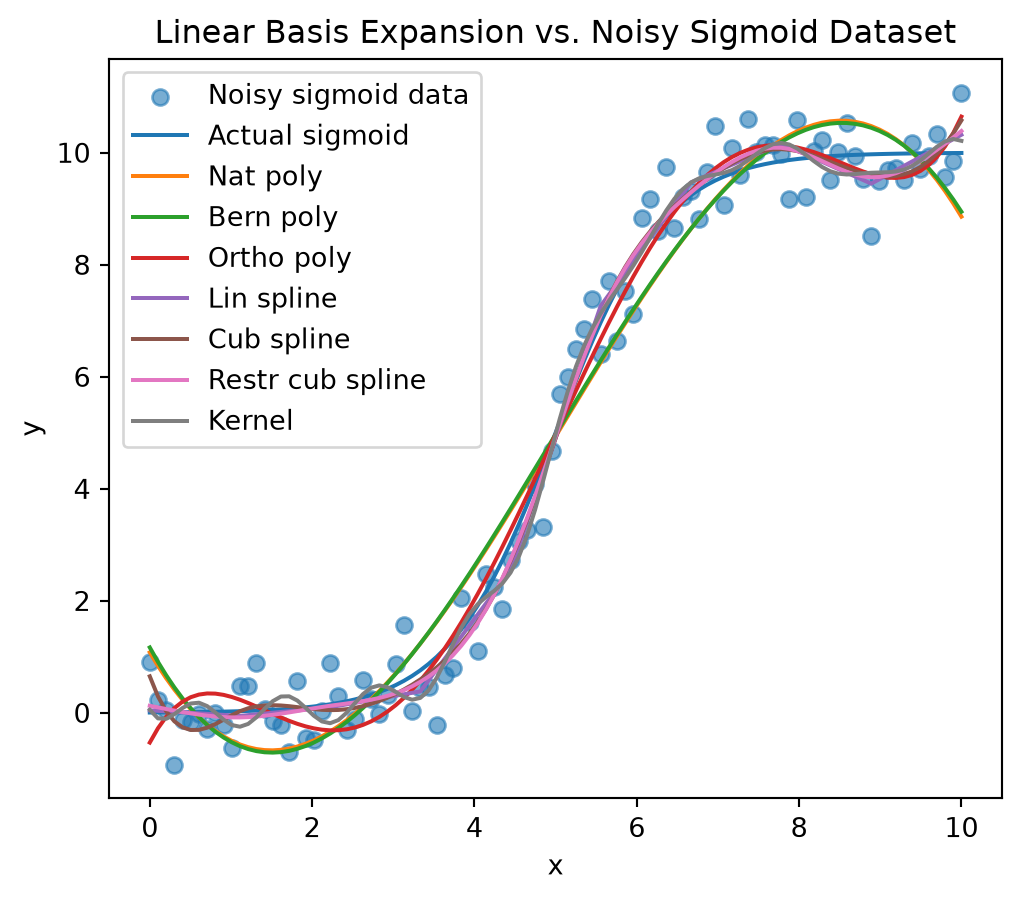
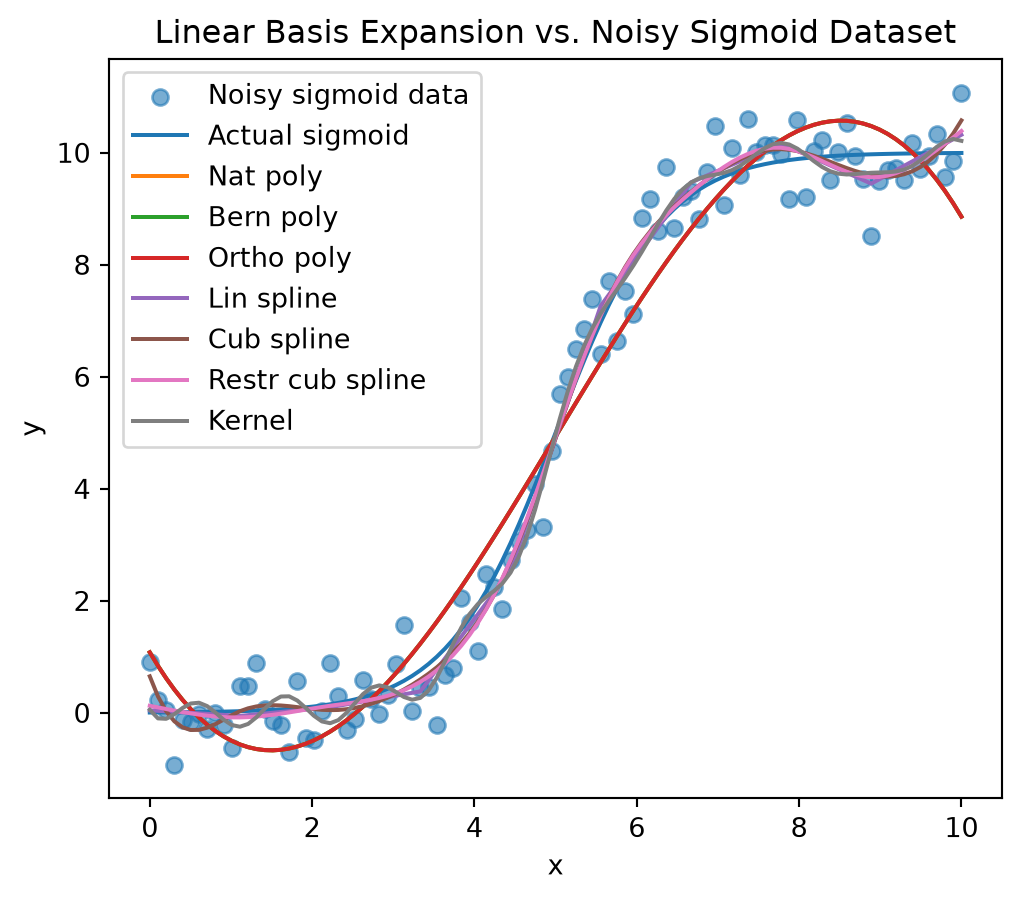
thurs morn revisions

diff --git a/_book/5_Nonlinearity.html b/_book/5_Nonlinearity.html
@@ -287,7 +287,7 @@ E[Y \mid x] = \beta_0 + \sum_{i=1}^{n} \beta_i K\left(\frac{x-c_i}{h}\right)
 <p>Linear combinations of multiple kernel functions can be used in a model, depending on the dataset. At the tails of the dataset, the model reverts back to a value of <span class="math inline">\(\beta_0\)</span>.</p>
 <p>Many different equations can be used for the kernel function, including any function proportional to a density function.</p>
 <p>A plot was also created to show how kernel functions sum to create the regression equation. For this example, 3 kernel functions were used. First, a simulated dataset was created from 0 to 10.</p>
-<div id="3ed064ab" class="cell" data-execution_count="1">
+<div id="92fc3d3e" class="cell" data-execution_count="1">
 <div class="code-copy-outer-scaffold"><div class="sourceCode cell-code" id="cb1"><pre class="sourceCode python code-with-copy"><code class="sourceCode python"><span id="cb1-1"><a href="#cb1-1" aria-hidden="true" tabindex="-1"></a><span class="im">import</span> numpy <span class="im">as</span> np</span>
 <span id="cb1-2"><a href="#cb1-2" aria-hidden="true" tabindex="-1"></a></span>
 <span id="cb1-3"><a href="#cb1-3" aria-hidden="true" tabindex="-1"></a><span class="co"># simulated dataset</span></span>
@@ -295,7 +295,7 @@ E[Y \mid x] = \beta_0 + \sum_{i=1}^{n} \beta_i K\left(\frac{x-c_i}{h}\right)
 <span id="cb1-5"><a href="#cb1-5" aria-hidden="true" tabindex="-1"></a>x <span class="op">=</span> np.linspace(<span class="dv">0</span>, <span class="dv">10</span>, <span class="dv">100</span>)</span></code></pre></div><button title="Copy to Clipboard" class="code-copy-button"><i class="bi"></i></button></div>
 </div>
 <p>Next, 3 kernel functions were created by defining their centers, c, widths, h, and using a Gaussian equation. The 3 kernel functions were summed to simulate a regression plot.</p>
-<div id="2bd5f54a" class="cell" data-execution_count="2">
+<div id="473718db" class="cell" data-execution_count="2">
 <div class="code-copy-outer-scaffold"><div class="sourceCode cell-code" id="cb2"><pre class="sourceCode python code-with-copy"><code class="sourceCode python"><span id="cb2-1"><a href="#cb2-1" aria-hidden="true" tabindex="-1"></a><span class="co"># select three kernel centers</span></span>
 <span id="cb2-2"><a href="#cb2-2" aria-hidden="true" tabindex="-1"></a>c_1 <span class="op">=</span> <span class="dv">2</span></span>
 <span id="cb2-3"><a href="#cb2-3" aria-hidden="true" tabindex="-1"></a>c_2 <span class="op">=</span> <span class="dv">4</span></span>
@@ -315,7 +315,7 @@ E[Y \mid x] = \beta_0 + \sum_{i=1}^{n} \beta_i K\left(\frac{x-c_i}{h}\right)
 <span id="cb2-17"><a href="#cb2-17" aria-hidden="true" tabindex="-1"></a>kernel_sum <span class="op">=</span> kernel_1 <span class="op">+</span> kernel_2 <span class="op">+</span> kernel_3</span></code></pre></div><button title="Copy to Clipboard" class="code-copy-button"><i class="bi"></i></button></div>
 </div>
 <p>Finally, a stacked plot was created to show all 3 kernel functions and their summation.</p>
-<div id="44f0c11b" class="cell" data-execution_count="3">
+<div id="fa70f84f" class="cell" data-execution_count="3">
 <div class="code-copy-outer-scaffold"><div class="sourceCode cell-code" id="cb3"><pre class="sourceCode python code-with-copy"><code class="sourceCode python"><span id="cb3-1"><a href="#cb3-1" aria-hidden="true" tabindex="-1"></a><span class="im">import</span> matplotlib.pyplot <span class="im">as</span> plt</span>
 <span id="cb3-2"><a href="#cb3-2" aria-hidden="true" tabindex="-1"></a><span class="co"># Create two vertically stacked subplots</span></span>
 <span id="cb3-3"><a href="#cb3-3" aria-hidden="true" tabindex="-1"></a>fig, axes <span class="op">=</span> plt.subplots(<span class="dv">2</span>, <span class="dv">1</span>, figsize<span class="op">=</span>(<span class="dv">6</span>, <span class="dv">5</span>), sharex<span class="op">=</span><span class="va">True</span>)</span>
@@ -355,7 +355,7 @@ E[Y \mid x] = \beta_0 + \sum_{i=1}^{n} \beta_i K\left(\frac{x-c_i}{h}\right)
 <section id="simulated-dataset" class="level3" data-number="6.2.1">
 <h3 data-number="6.2.1" class="anchored" data-anchor-id="simulated-dataset"><span class="header-section-number">6.2.1</span> Simulated Dataset</h3>
 <p>A simulated dataset was used to show the code implementation of each of the basis expansion methods. The dataset used was a noisy sine wave. The sine wave was created over a single period from 0 to <span class="math inline">\(2\pi\)</span>. Random noise was generated from a normal distribution with a mean of 0 and standard deviation of 0.2. This random noise was added to the noise wave to produce the example dataset. The dataset was then plotted.</p>
-<div id="6a201055" class="cell" data-execution_count="4">
+<div id="7c20d87d" class="cell" data-execution_count="4">
 <div class="code-copy-outer-scaffold"><div class="sourceCode cell-code" id="cb4"><pre class="sourceCode python code-with-copy"><code class="sourceCode python"><span id="cb4-1"><a href="#cb4-1" aria-hidden="true" tabindex="-1"></a><span class="im">import</span> numpy <span class="im">as</span> np</span>
 <span id="cb4-2"><a href="#cb4-2" aria-hidden="true" tabindex="-1"></a><span class="im">import</span> matplotlib.pyplot <span class="im">as</span> plt</span>
 <span id="cb4-3"><a href="#cb4-3" aria-hidden="true" tabindex="-1"></a></span>
@@ -393,8 +393,8 @@ E[Y \mid x] = \beta_0 + \sum_{i=1}^{n} \beta_i K\left(\frac{x-c_i}{h}\right)
 <p>The basic equation for a natural polynomial regression is as follows: <span class="math display">\[
 E[Y \mid x] = \beta_0 + \beta_1 x + \beta_2 x^2 + \cdots + \beta_d x^d
 \]</span></p>
-<p>The sklearn PolynomialFeatures library was used for implementing the natural polynomial function. A 3rd degree polynomial was used for this example. The polynomial model was then created and fit to the noisy sine wave data. The polynomial model was then used to make predictions along x.</p>
-<div id="be557c48" class="cell" data-execution_count="5">
+<p>The sklearn PolynomialFeatures library was used for implementing the natural polynomial function. A 3rd degree polynomial was used for this example. The PolynomialFeatures library in sklearn was used to develop the design matrix. The polynomial model was then created and fit to the noisy sine wave data. The polynomial model was then used to make predictions along x.</p>
+<div id="bef9bcb2" class="cell" data-execution_count="5">
 <div class="code-copy-outer-scaffold"><div class="sourceCode cell-code" id="cb5"><pre class="sourceCode python code-with-copy"><code class="sourceCode python"><span id="cb5-1"><a href="#cb5-1" aria-hidden="true" tabindex="-1"></a><span class="im">from</span> sklearn.preprocessing <span class="im">import</span> PolynomialFeatures</span>
 <span id="cb5-2"><a href="#cb5-2" aria-hidden="true" tabindex="-1"></a><span class="im">from</span> sklearn.linear_model <span class="im">import</span> LinearRegression</span>
 <span id="cb5-3"><a href="#cb5-3" aria-hidden="true" tabindex="-1"></a></span>
@@ -415,7 +415,7 @@ E[Y \mid x] = \beta_0 + \beta_1 x + \beta_2 x^2 + \cdots + \beta_d x^d
 <span id="cb5-18"><a href="#cb5-18" aria-hidden="true" tabindex="-1"></a>y_pred_nat_poly <span class="op">=</span> natural_poly_regression(X, y, degree<span class="op">=</span><span class="dv">3</span>)</span></code></pre></div><button title="Copy to Clipboard" class="code-copy-button"><i class="bi"></i></button></div>
 </div>
 <p>The noisy sine wave data nd natural polynomial model were then plotted to visualize the model fit.</p>
-<div id="6a77a29e" class="cell" data-execution_count="6">
+<div id="de662ddb" class="cell" data-execution_count="6">
 <div class="code-copy-outer-scaffold"><div class="sourceCode cell-code" id="cb6"><pre class="sourceCode python code-with-copy"><code class="sourceCode python"><span id="cb6-1"><a href="#cb6-1" aria-hidden="true" tabindex="-1"></a><span class="co"># plot results</span></span>
 <span id="cb6-2"><a href="#cb6-2" aria-hidden="true" tabindex="-1"></a>plt.figure(figsize<span class="op">=</span>(<span class="dv">6</span>, <span class="dv">5</span>))</span>
 <span id="cb6-3"><a href="#cb6-3" aria-hidden="true" tabindex="-1"></a>plt.scatter(x, y, alpha<span class="op">=</span><span class="fl">0.6</span>, label<span class="op">=</span><span class="st">"Noisy sine wave"</span>)</span>
@@ -446,7 +446,7 @@ B_{k,d}(x) = \binom{d}{k} x^k (1-x)^{d-k}
 <p>Next, a third degree Bernstein polynomial was selected as the regression approach. A function was written to calculate the general term in the Bernstein basis expansion. This function used the scipy special combination library for the combination portion of the Bernstein expansion. Then a for loop was used to create a marix containing each term of the Bernstein expansion.</p>
 <p>The bern_terms list was then transformed from a list of arrays into a resulting design matrix. This was done using the numpy hstack function. This function takes each array in the bern_terms list and combines them horizontally to create an array with dimensions: (num of obs x poly degree+1).</p>
 <p>Finally, the Bernstein regression model was created, fit, and used to generate predictions.</p>
-<div id="6300b3a9" class="cell" data-execution_count="7">
+<div id="0b689a77" class="cell" data-execution_count="7">
 <div class="code-copy-outer-scaffold"><div class="sourceCode cell-code" id="cb7"><pre class="sourceCode python code-with-copy"><code class="sourceCode python"><span id="cb7-1"><a href="#cb7-1" aria-hidden="true" tabindex="-1"></a><span class="im">from</span> scipy.special <span class="im">import</span> comb</span>
 <span id="cb7-2"><a href="#cb7-2" aria-hidden="true" tabindex="-1"></a><span class="im">import</span> numpy <span class="im">as</span> np</span>
 <span id="cb7-3"><a href="#cb7-3" aria-hidden="true" tabindex="-1"></a><span class="im">from</span> sklearn.linear_model <span class="im">import</span> LinearRegression</span>
@@ -477,7 +477,7 @@ B_{k,d}(x) = \binom{d}{k} x^k (1-x)^{d-k}
 <span id="cb7-28"><a href="#cb7-28" aria-hidden="true" tabindex="-1"></a>y_pred_bern <span class="op">=</span> bernstein_regression(X, y, degree<span class="op">=</span><span class="dv">3</span>)</span></code></pre></div><button title="Copy to Clipboard" class="code-copy-button"><i class="bi"></i></button></div>
 </div>
 <p>The resulting Bernstein polynomial was then added to the plot for comparison.</p>
-<div id="e75f83e1" class="cell" data-execution_count="8">
+<div id="ecbe0d10" class="cell" data-execution_count="8">
 <div class="code-copy-outer-scaffold"><div class="sourceCode cell-code" id="cb8"><pre class="sourceCode python code-with-copy"><code class="sourceCode python"><span id="cb8-1"><a href="#cb8-1" aria-hidden="true" tabindex="-1"></a><span class="co"># plot results</span></span>
 <span id="cb8-2"><a href="#cb8-2" aria-hidden="true" tabindex="-1"></a>plt.figure(figsize<span class="op">=</span>(<span class="dv">6</span>, <span class="dv">5</span>))</span>
 <span id="cb8-3"><a href="#cb8-3" aria-hidden="true" tabindex="-1"></a>plt.scatter(x, y, alpha<span class="op">=</span><span class="fl">0.6</span>, label<span class="op">=</span><span class="st">"Noisy sine wave"</span>)</span>
@@ -501,7 +501,7 @@ B_{k,d}(x) = \binom{d}{k} x^k (1-x)^{d-k}
 <h4 data-number="6.2.2.3" class="anchored" data-anchor-id="orthogonal-polynomials"><span class="header-section-number">6.2.2.3</span> Orthogonal Polynomials</h4>
 <p>To construct an orthogonal polynomial basis expansion, the degree of the polynomial must first be selected. For this example, a third degree polynomial was selected. Next, the raw polynoial features were created using the PolynomialFeatures sklearn library. This approach is the same as was used for the natural polynomial basis.</p>
 <p>Then the numpy QR decomposition was used to transform the raw polynomial features into orthonormal columns, which are orthogonal and have unit length. These orthonormal columns were used to fit the orthogonal polynomial model. Finally, predictions were developed over X using the fitted model.</p>
-<div id="7ee929ce" class="cell" data-execution_count="9">
+<div id="050ac6f6" class="cell" data-execution_count="9">
 <div class="code-copy-outer-scaffold"><div class="sourceCode cell-code" id="cb9"><pre class="sourceCode python code-with-copy"><code class="sourceCode python"><span id="cb9-1"><a href="#cb9-1" aria-hidden="true" tabindex="-1"></a><span class="im">from</span> sklearn.linear_model <span class="im">import</span> LinearRegression</span>
 <span id="cb9-2"><a href="#cb9-2" aria-hidden="true" tabindex="-1"></a><span class="im">from</span> sklearn.preprocessing <span class="im">import</span> PolynomialFeatures</span>
 <span id="cb9-3"><a href="#cb9-3" aria-hidden="true" tabindex="-1"></a><span class="im">import</span> numpy <span class="im">as</span> np</span>
@@ -532,7 +532,7 @@ B_{k,d}(x) = \binom{d}{k} x^k (1-x)^{d-k}
 <span id="cb9-28"><a href="#cb9-28" aria-hidden="true" tabindex="-1"></a></span>
 <span id="cb9-29"><a href="#cb9-29" aria-hidden="true" tabindex="-1"></a>y_pred_orth <span class="op">=</span> orthogonal_poly_regression(X, y, degree<span class="op">=</span><span class="dv">3</span>)</span></code></pre></div><button title="Copy to Clipboard" class="code-copy-button"><i class="bi"></i></button></div>
 </div>
-<div id="209e7764" class="cell" data-execution_count="10">
+<div id="302bd648" class="cell" data-execution_count="10">
 <div class="code-copy-outer-scaffold"><div class="sourceCode cell-code" id="cb10"><pre class="sourceCode python code-with-copy"><code class="sourceCode python"><span id="cb10-1"><a href="#cb10-1" aria-hidden="true" tabindex="-1"></a><span class="co"># plot results</span></span>
 <span id="cb10-2"><a href="#cb10-2" aria-hidden="true" tabindex="-1"></a>plt.figure(figsize<span class="op">=</span>(<span class="dv">6</span>, <span class="dv">5</span>))</span>
 <span id="cb10-3"><a href="#cb10-3" aria-hidden="true" tabindex="-1"></a>plt.scatter(x, y, alpha<span class="op">=</span><span class="fl">0.6</span>, label<span class="op">=</span><span class="st">"Noisy sine wave"</span>)</span>
@@ -566,9 +566,8 @@ f(x) = \beta_0 + \beta_1 x +
 (x - c_k)_+ = \max(0, x - c_k)   
 \]</span></p>
 <p><span class="math inline">\(c\)</span> = location of knot <span class="math inline">\(k\)</span> <span class="math inline">\(K\)</span> + total number of knots</p>
-<p>The first choice in using the linear spline basis is to select the number of knots used. For this example, 10 knots were selected. The knots were placed at equally spaced locations across the interior of X for simplicity. Therefore knots were not included at the endpoints of X.</p>
-<p>NEED MORE TEXT</p>
-<div id="cae1aba7" class="cell" data-execution_count="11">
+<p>The first choice in using the linear spline basis is to select the number of knots used. For this example, 10 knots were selected. The knots were placed at equally spaced locations across X for simplicity. The sklearn SplineTransformer library was used for constructing the linear splines. The model was then fit and used to generated predictions.</p>
+<div id="46562475" class="cell" data-execution_count="11">
 <div class="code-copy-outer-scaffold"><div class="sourceCode cell-code" id="cb11"><pre class="sourceCode python code-with-copy"><code class="sourceCode python"><span id="cb11-1"><a href="#cb11-1" aria-hidden="true" tabindex="-1"></a><span class="im">from</span> sklearn.preprocessing <span class="im">import</span> SplineTransformer</span>
 <span id="cb11-2"><a href="#cb11-2" aria-hidden="true" tabindex="-1"></a><span class="im">from</span> sklearn.linear_model <span class="im">import</span> LinearRegression</span>
 <span id="cb11-3"><a href="#cb11-3" aria-hidden="true" tabindex="-1"></a></span>
@@ -593,7 +592,7 @@ f(x) = \beta_0 + \beta_1 x +
 <span id="cb11-22"><a href="#cb11-22" aria-hidden="true" tabindex="-1"></a>y_pred_lin_spline <span class="op">=</span> linear_spline_regression(X, y, num_knots<span class="op">=</span><span class="dv">10</span>)</span></code></pre></div><button title="Copy to Clipboard" class="code-copy-button"><i class="bi"></i></button></div>
 </div>
 <p>Then the linear splines model was plotted for comparison to the other models.</p>
-<div id="178ca22a" class="cell" data-execution_count="12">
+<div id="cd7ebe11" class="cell" data-execution_count="12">
 <div class="code-copy-outer-scaffold"><div class="sourceCode cell-code" id="cb12"><pre class="sourceCode python code-with-copy"><code class="sourceCode python"><span id="cb12-1"><a href="#cb12-1" aria-hidden="true" tabindex="-1"></a><span class="co"># plot results</span></span>
 <span id="cb12-2"><a href="#cb12-2" aria-hidden="true" tabindex="-1"></a>plt.figure(figsize<span class="op">=</span>(<span class="dv">6</span>, <span class="dv">5</span>))</span>
 <span id="cb12-3"><a href="#cb12-3" aria-hidden="true" tabindex="-1"></a>plt.scatter(x, y, alpha<span class="op">=</span><span class="fl">0.6</span>, label<span class="op">=</span><span class="st">"Noisy sine wave"</span>)</span>
@@ -638,7 +637,7 @@ f(x) =
 + \sum_{k=1}^{K} \beta_{k+3}(x-\kappa_k)_+^3
 \]</span></p>
 <p>The cubic splines model was developed using the exact same approach as the linear splines, except that two parameters in the SplineTransformer library were revised. The degree parameter was set to 3 for a cubic function, and the extrapolation parameter was set to ‘continue’ to allow the curve to continue past the boundary knots.</p>
-<div id="8937089a" class="cell" data-execution_count="13">
+<div id="a1ef335e" class="cell" data-execution_count="13">
 <div class="code-copy-outer-scaffold"><div class="sourceCode cell-code" id="cb13"><pre class="sourceCode python code-with-copy"><code class="sourceCode python"><span id="cb13-1"><a href="#cb13-1" aria-hidden="true" tabindex="-1"></a><span class="im">from</span> sklearn.preprocessing <span class="im">import</span> SplineTransformer</span>
 <span id="cb13-2"><a href="#cb13-2" aria-hidden="true" tabindex="-1"></a><span class="im">from</span> sklearn.linear_model <span class="im">import</span> LinearRegression</span>
 <span id="cb13-3"><a href="#cb13-3" aria-hidden="true" tabindex="-1"></a></span>
@@ -664,7 +663,7 @@ f(x) =
 <span id="cb13-23"><a href="#cb13-23" aria-hidden="true" tabindex="-1"></a>y_pred_cub_spline <span class="op">=</span> cubic_spline_regression(X, y, num_knots<span class="op">=</span><span class="dv">10</span>)</span></code></pre></div><button title="Copy to Clipboard" class="code-copy-button"><i class="bi"></i></button></div>
 </div>
 <p>The cubic splines model was included on the noisy sine wave plot for comparison.</p>
-<div id="aefb1599" class="cell" data-execution_count="14">
+<div id="423b0cd4" class="cell" data-execution_count="14">
 <div class="code-copy-outer-scaffold"><div class="sourceCode cell-code" id="cb14"><pre class="sourceCode python code-with-copy"><code class="sourceCode python"><span id="cb14-1"><a href="#cb14-1" aria-hidden="true" tabindex="-1"></a><span class="co"># plot results</span></span>
 <span id="cb14-2"><a href="#cb14-2" aria-hidden="true" tabindex="-1"></a>plt.figure(figsize<span class="op">=</span>(<span class="dv">6</span>, <span class="dv">5</span>))</span>
 <span id="cb14-3"><a href="#cb14-3" aria-hidden="true" tabindex="-1"></a>plt.scatter(x, y, alpha<span class="op">=</span><span class="fl">0.6</span>, label<span class="op">=</span><span class="st">"Noisy sine wave"</span>)</span>
@@ -689,8 +688,10 @@ f(x) =
 </section>
 <section id="restricted-cubic-splines" class="level4" data-number="6.2.3.3">
 <h4 data-number="6.2.3.3" class="anchored" data-anchor-id="restricted-cubic-splines"><span class="header-section-number">6.2.3.3</span> Restricted Cubic Splines</h4>
-<p>TEXT</p>
-<div id="eeeb64be" class="cell" data-execution_count="15">
+<p>The restricted cubic splines model was constructed using the patsy dmatrix library, which is used for constructing the design matrix. Similar to the other spline models, the sklearn LinearRegression library was used for fitting the model.</p>
+<p>Within the dmatrix function, cr stands for cubic regression. This approach constructs basis functions that satisfy the natural spline boundary constraints, which force the combined fitted curve to have a second derivative of 0, making the tails linear, which is a key difference of this model compared to the cubic splines. df defines the number of knots. -1 removes the intercept column from the design matrix. X.ravel() converts x to a one dimensional array to be used for fitting the model.</p>
+<p>The model was then fit and used to generated predictions.</p>
+<div id="53ba9101" class="cell" data-execution_count="15">
 <div class="code-copy-outer-scaffold"><div class="sourceCode cell-code" id="cb15"><pre class="sourceCode python code-with-copy"><code class="sourceCode python"><span id="cb15-1"><a href="#cb15-1" aria-hidden="true" tabindex="-1"></a><span class="im">from</span> patsy <span class="im">import</span> dmatrix</span>
 <span id="cb15-2"><a href="#cb15-2" aria-hidden="true" tabindex="-1"></a><span class="im">from</span> sklearn.linear_model <span class="im">import</span> LinearRegression</span>
 <span id="cb15-3"><a href="#cb15-3" aria-hidden="true" tabindex="-1"></a></span>
@@ -711,7 +712,7 @@ f(x) =
 <span id="cb15-18"><a href="#cb15-18" aria-hidden="true" tabindex="-1"></a>y_pred_rcs <span class="op">=</span> restricted_cubic_spline_regression(X, y, num_knots<span class="op">=</span><span class="dv">10</span>)</span></code></pre></div><button title="Copy to Clipboard" class="code-copy-button"><i class="bi"></i></button></div>
 </div>
 <p>The restricted cubic splines model was included on the noisy sine wave plot for comparison.</p>
-<div id="48224b66" class="cell" data-execution_count="16">
+<div id="73fbde06" class="cell" data-execution_count="16">
 <div class="code-copy-outer-scaffold"><div class="sourceCode cell-code" id="cb16"><pre class="sourceCode python code-with-copy"><code class="sourceCode python"><span id="cb16-1"><a href="#cb16-1" aria-hidden="true" tabindex="-1"></a><span class="co"># plot results</span></span>
 <span id="cb16-2"><a href="#cb16-2" aria-hidden="true" tabindex="-1"></a>plt.figure(figsize<span class="op">=</span>(<span class="dv">6</span>, <span class="dv">5</span>))</span>
 <span id="cb16-3"><a href="#cb16-3" aria-hidden="true" tabindex="-1"></a>plt.scatter(x, y, alpha<span class="op">=</span><span class="fl">0.6</span>, label<span class="op">=</span><span class="st">"Noisy sine wave"</span>)</span>
@@ -740,7 +741,7 @@ f(x) =
 <h3 data-number="6.2.4" class="anchored" data-anchor-id="kernels-1"><span class="header-section-number">6.2.4</span> Kernels</h3>
 <p>The rbf_kernel library from sklearn was used to construct the kernel functions. A total of 10 kernel functions were used. Their centers were placed evenly across the range of x, from 0 to <span class="math inline">\(2\pi\)</span>. The hyperparameter <span class="math inline">\(h\)</span> was set to 0.5 for all kernel functions.</p>
 <p>Then the <span class="math inline">\(h\)</span> hyperparameter was converted to the <span class="math inline">\(\gamma\)</span> hyperparameter needed for the kernel function in the rbf_kernel library. Then the kernel functions were calculated.</p>
-<div id="678c071e" class="cell" data-execution_count="17">
+<div id="8e9f6979" class="cell" data-execution_count="17">
 <div class="code-copy-outer-scaffold"><div class="sourceCode cell-code" id="cb17"><pre class="sourceCode python code-with-copy"><code class="sourceCode python"><span id="cb17-1"><a href="#cb17-1" aria-hidden="true" tabindex="-1"></a><span class="im">from</span> sklearn.metrics.pairwise <span class="im">import</span> rbf_kernel</span>
 <span id="cb17-2"><a href="#cb17-2" aria-hidden="true" tabindex="-1"></a><span class="im">from</span> sklearn.linear_model <span class="im">import</span> LinearRegression</span>
 <span id="cb17-3"><a href="#cb17-3" aria-hidden="true" tabindex="-1"></a><span class="im">import</span> numpy <span class="im">as</span> np</span>
@@ -769,7 +770,7 @@ f(x) =
 <span id="cb17-26"><a href="#cb17-26" aria-hidden="true" tabindex="-1"></a>y_pred_kern <span class="op">=</span> kernel_regression(X, y, M<span class="op">=</span><span class="dv">10</span>, h<span class="op">=</span><span class="fl">0.5</span>)</span></code></pre></div><button title="Copy to Clipboard" class="code-copy-button"><i class="bi"></i></button></div>
 </div>
 <p>Finally, the kernel model was fit and used to make predictions. The resulting model was included on the plot with the noisy sine data to show its effectiveness.</p>
-<div id="1263d932" class="cell" data-execution_count="18">
+<div id="5533f927" class="cell" data-execution_count="18">
 <div class="code-copy-outer-scaffold"><div class="sourceCode cell-code" id="cb18"><pre class="sourceCode python code-with-copy"><code class="sourceCode python"><span id="cb18-1"><a href="#cb18-1" aria-hidden="true" tabindex="-1"></a><span class="co"># plot results</span></span>
 <span id="cb18-2"><a href="#cb18-2" aria-hidden="true" tabindex="-1"></a>plt.figure(figsize<span class="op">=</span>(<span class="dv">6</span>, <span class="dv">5</span>))</span>
 <span id="cb18-3"><a href="#cb18-3" aria-hidden="true" tabindex="-1"></a>plt.scatter(x, y, alpha<span class="op">=</span><span class="fl">0.6</span>, label<span class="op">=</span><span class="st">"Noisy sine wave"</span>)</span>
@@ -794,7 +795,7 @@ f(x) =
 </div>
 </div>
 <p>A second simulated dataset was also used to compare the seven different linear basis expansion models. This one was a noisy sigmoid function.</p>
-<div id="0516d068" class="cell" data-execution_count="19">
+<div id="67068979" class="cell" data-execution_count="19">
 <div class="code-copy-outer-scaffold"><div class="sourceCode cell-code" id="cb19"><pre class="sourceCode python code-with-copy"><code class="sourceCode python"><span id="cb19-1"><a href="#cb19-1" aria-hidden="true" tabindex="-1"></a><span class="co"># generate x values</span></span>
 <span id="cb19-2"><a href="#cb19-2" aria-hidden="true" tabindex="-1"></a>np.random.seed(<span class="dv">3</span>)</span>
 <span id="cb19-3"><a href="#cb19-3" aria-hidden="true" tabindex="-1"></a>x <span class="op">=</span> np.linspace(<span class="dv">0</span>, <span class="dv">10</span>, <span class="dv">100</span>)</span>
@@ -825,17 +826,17 @@ f(x) =
 </div>
 </div>
 <p>Next, all 7 models were developed.</p>
-<div id="4bb96531" class="cell" data-execution_count="20">
+<div id="3758b6ab" class="cell" data-execution_count="20">
 <div class="code-copy-outer-scaffold"><div class="sourceCode cell-code" id="cb20"><pre class="sourceCode python code-with-copy"><code class="sourceCode python"><span id="cb20-1"><a href="#cb20-1" aria-hidden="true" tabindex="-1"></a>y_pred_nat_poly <span class="op">=</span> natural_poly_regression(X, y, degree<span class="op">=</span><span class="dv">3</span>)</span>
-<span id="cb20-2"><a href="#cb20-2" aria-hidden="true" tabindex="-1"></a>y_pred_bern <span class="op">=</span> bernstein_regression(X, y, degree<span class="op">=</span><span class="dv">4</span>)</span>
-<span id="cb20-3"><a href="#cb20-3" aria-hidden="true" tabindex="-1"></a>y_pred_orth <span class="op">=</span> orthogonal_poly_regression(X, y, degree<span class="op">=</span><span class="dv">5</span>)</span>
+<span id="cb20-2"><a href="#cb20-2" aria-hidden="true" tabindex="-1"></a>y_pred_bern <span class="op">=</span> bernstein_regression(X, y, degree<span class="op">=</span><span class="dv">3</span>)</span>
+<span id="cb20-3"><a href="#cb20-3" aria-hidden="true" tabindex="-1"></a>y_pred_orth <span class="op">=</span> orthogonal_poly_regression(X, y, degree<span class="op">=</span><span class="dv">3</span>)</span>
 <span id="cb20-4"><a href="#cb20-4" aria-hidden="true" tabindex="-1"></a>y_pred_lin_spline <span class="op">=</span> linear_spline_regression(X, y, num_knots<span class="op">=</span><span class="dv">10</span>)</span>
 <span id="cb20-5"><a href="#cb20-5" aria-hidden="true" tabindex="-1"></a>y_pred_cub_spline <span class="op">=</span> cubic_spline_regression(X, y, num_knots<span class="op">=</span><span class="dv">10</span>)</span>
 <span id="cb20-6"><a href="#cb20-6" aria-hidden="true" tabindex="-1"></a>y_pred_rcs <span class="op">=</span> restricted_cubic_spline_regression(X, y, num_knots<span class="op">=</span><span class="dv">10</span>)</span>
 <span id="cb20-7"><a href="#cb20-7" aria-hidden="true" tabindex="-1"></a>y_pred_kern <span class="op">=</span> kernel_regression(X, y, M<span class="op">=</span><span class="dv">10</span>, h<span class="op">=</span><span class="fl">0.5</span>)</span></code></pre></div><button title="Copy to Clipboard" class="code-copy-button"><i class="bi"></i></button></div>
 </div>
 <p>Finally, all 7 models were plotted for comparison.</p>
-<div id="dc10ab0e" class="cell" data-execution_count="21">
+<div id="25932a23" class="cell" data-execution_count="21">
 <div class="code-copy-outer-scaffold"><div class="sourceCode cell-code" id="cb21"><pre class="sourceCode python code-with-copy"><code class="sourceCode python"><span id="cb21-1"><a href="#cb21-1" aria-hidden="true" tabindex="-1"></a><span class="co"># plot results</span></span>
 <span id="cb21-2"><a href="#cb21-2" aria-hidden="true" tabindex="-1"></a>plt.figure(figsize<span class="op">=</span>(<span class="dv">6</span>, <span class="dv">5</span>))</span>
 <span id="cb21-3"><a href="#cb21-3" aria-hidden="true" tabindex="-1"></a>plt.scatter(x, y, alpha<span class="op">=</span><span class="fl">0.6</span>, label<span class="op">=</span><span class="st">"Noisy sigmoid data"</span>)</span>
